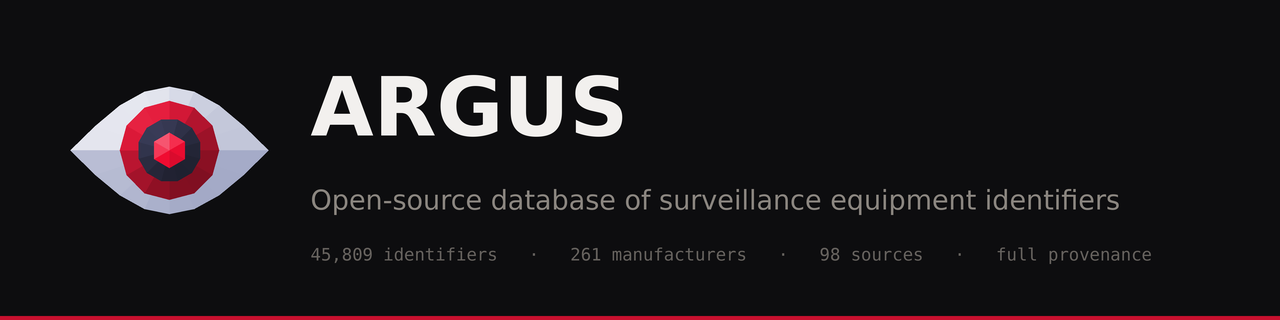
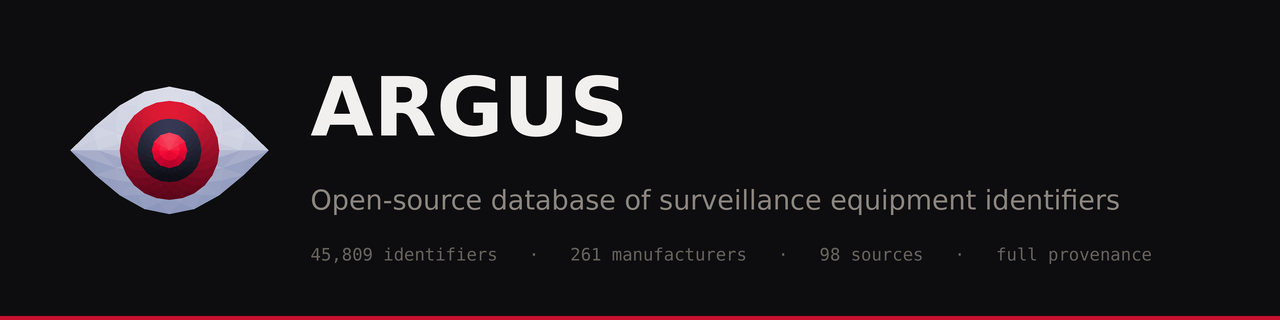
docs: the deeper-faceted Argus mark, drawn from one SVG
The mark is now the one on gurutechnology.services (the same file, byte for
byte): more rings of facets and a 24-sided iris where it had 12.
docs/assets/argus-mark.svg is that file. make_banner.py now reads its
polygons instead of keeping a second copy of the geometry in Python, so the
PNGs are regenerated from the SVG.

The facts line was re-measured and is unchanged: record_count=45809 in
exports/argus_export.csv, 261 manufacturers and 98 sources in db/argus.db.

Changed region(s): [[0.0625, 0.3125, 0.1875, 0.6562]]

diff --git a/scripts/make_banner.py b/scripts/make_banner.py
@@ -16,9 +16,8 @@ looks soft on a HiDPI screen.
 Usage:
     python3 scripts/make_banner.py            # writes docs/assets/{argus-banner,argus-logo}.png
 """
-import colorsys
-import math
 import os
+import xml.etree.ElementTree as ET
 import sys
 from PIL import Image, ImageDraw, ImageFont
 
@@ -46,111 +45,37 @@ def font(kind, size):
 
 
 # ---- the low-poly mark ------------------------------------------------------
-# Every shape is split into flat triangles, and each triangle is shaded by how
-# much it faces one light from the top left, so the mark reads as a faceted
-# solid. Geometry is in a 64-unit box; draw_mark scales it to pixels. The same
-# geometry is the SVG mark on gurutechnology.services.
-LIGHT = (-0.45, -0.65, 0.62)
-_ln = math.sqrt(sum(c * c for c in LIGHT))
-LIGHT = tuple(c / _ln for c in LIGHT)
+# The mark is docs/assets/argus-mark.svg, the same file gurutechnology.services
+# shows: flat shaded polygons in a 64-unit box. draw_mark reads those polygons
+# and scales them to pixels, so these PNGs cannot drift from the site's mark.
+MARK_SVG = os.path.join(os.path.dirname(__file__), "..", "docs", "assets", "argus-mark.svg")
 
 
-def _shade(rgb, p, q, r, spread):
-    (x1, y1, z1), (x2, y2, z2), (x3, y3, z3) = p, q, r
-    ux, uy, uz = x2 - x1, y2 - y1, z2 - z1
-    vx, vy, vz = x3 - x1, y3 - y1, z3 - z1
-    nx, ny, nz = uy * vz - uz * vy, uz * vx - ux * vz, ux * vy - uy * vx
-    if nz < 0:
-        nx, ny, nz = -nx, -ny, -nz
-    m = math.sqrt(nx * nx + ny * ny + nz * nz) or 1
-    d = (nx * LIGHT[0] + ny * LIGHT[1] + nz * LIGHT[2]) / m
-    hue, lum, sat = colorsys.rgb_to_hls(*(c / 255 for c in rgb))
-    delta = spread * (d - 0.62) * 1.6
-    if delta < 0:
-        delta *= 0.55                     # the shaded side darkens gently, so colours stay even
-    lum = min(0.93, max(0.08, lum + delta))
-    return tuple(round(c * 255) for c in colorsys.hls_to_rgb(hue, lum, sat))
-
-
-def _ngon(cx, cy, r, n, rot=0):
-    return [(cx + r * math.cos(math.radians(rot + 360 * k / n)),
-             cy + r * math.sin(math.radians(rot + 360 * k / n))) for k in range(n)]
-
-
-class _Facets:
-    """Collects shaded triangles as (colour, [(x, y), (x, y), (x, y)])."""
-
-    def __init__(self):
-        self.tris = []
-
-    def tri(self, a, b, c, rgb, spread):
-        self.tris.append((_shade(rgb, a, b, c, spread), [a[:2], b[:2], c[:2]]))
-
-    def fan(self, poly, apex, h, rgb, spread):
-        """A pyramid: every edge of poly joined to a raised apex."""
-        top = (apex[0], apex[1], h)
-        for i in range(len(poly)):
-            p, q = poly[i], poly[(i + 1) % len(poly)]
-            self.tri((p[0], p[1], 0), (q[0], q[1], 0), top, rgb, spread)
-
-    def dome(self, poly, apex, h, rgb, spread, k=0.5, kz=0.72):
-        """Two rings of facets: an outer band rising to an inner ring, then a pyramid."""
-        inner = [(x + (apex[0] - x) * k, y + (apex[1] - y) * k) for x, y in poly]
-        top = (apex[0], apex[1], h)
-        n = len(poly)
-        for i in range(n):
-            p, q = poly[i], poly[(i + 1) % n]
-            a, b = inner[i], inner[(i + 1) % n]
-            P, Q = (p[0], p[1], 0), (q[0], q[1], 0)
-            A, B = (a[0], a[1], h * kz), (b[0], b[1], h * kz)
-            self.tri(P, Q, B, rgb, spread)
-            self.tri(P, B, A, rgb, spread)
-            self.tri(A, B, top, rgb, spread)
-
-    def ridge_arc(self, cx, cy, r, t, a0, a1, segs, h, rgb, spread=0.30):
-        """A band along an arc with a raised ridge down its middle."""
-        for i in range(segs):
-            b0 = math.radians(a0 + (a1 - a0) * i / segs)
-            b1 = math.radians(a0 + (a1 - a0) * (i + 1) / segs)
-
-            def P(rad, ang, z=0):
-                return (cx + rad * math.cos(ang), cy + rad * math.sin(ang), z)
-            i0, i1 = P(r - t / 2, b0), P(r - t / 2, b1)
-            o0, o1 = P(r + t / 2, b0), P(r + t / 2, b1)
-            m0, m1 = P(r, b0, h), P(r, b1, h)
-            self.tri(i0, i1, m1, rgb, spread)
-            self.tri(i0, m1, m0, rgb, spread)
-            self.tri(m0, m1, o1, rgb, spread)
-            self.tri(m0, o1, o0, rgb, spread)
-
-
-def _mark_facets():
-    """Silver eye, crimson iris, dark ring, red pupil, every facet on one centre."""
-    f = _Facets()
-    top = [(4 + 56 * k / 8, 32 - 18 * math.sin(math.pi * k / 8)) for k in range(9)]
-    bot = [(60 - 56 * k / 8, 32 + 18 * math.sin(math.pi * k / 8)) for k in range(1, 8)]
-    f.dome(top + bot, (32, 32), 9, (0xc3, 0xc7, 0xda), 0.20)
-    f.dome(_ngon(32, 32, 14, 12, -90), (32, 32), 7, (0xb8, 0x15, 0x2f), 0.20, 0.45, 0.8)
-    f.fan(_ngon(32, 32, 9, 12, -75), (32, 32), 5, (0x2b, 0x2d, 0x42), 0.14)
-    f.fan(_ngon(32, 32, 5, 6, -90), (32, 32), 3.5, (0xf4, 0x24, 0x46), 0.18)
-    return f.tris
-
-
-MARK_BOX = (4, 14, 60, 50)               # the eye's extent in the 64-unit box
+def _mark_polygons():
+    """[(rgb, [(x, y), ...]), ...] from MARK_SVG, in drawing order."""
+    polys = []
+    for el in ET.parse(MARK_SVG).iter("{http://www.w3.org/2000/svg}polygon"):
+        nums = [float(v) for v in el.get("points").replace(",", " ").split()]
+        fill = el.get("fill").lstrip("#")
+        polys.append((tuple(int(fill[i:i + 2], 16) for i in (0, 2, 4)), list(zip(nums[::2], nums[1::2]))))
+    if not polys:
+        raise SystemExit(f"no polygons found in {MARK_SVG}")
+    return polys
 
 
 def draw_mark(d, cx, cy, size):
     """Draw the mark centred on (cx, cy), its longer side `size` pixels.
 
-    Each facet is filled and outlined in its own colour, so no seam shows
-    between neighbours after the LANCZOS downsample.
+    Each polygon is outlined in its own colour, so no seam shows between
+    neighbours after the LANCZOS downsample.
     """
-    x0, y0, x1, y1 = MARK_BOX
-    s = size / max(x1 - x0, y1 - y0)
-    mx, my = (x0 + x1) / 2, (y0 + y1) / 2
-    for rgb, pts in _mark_facets():
-        xy = [(cx + (x - mx) * s, cy + (y - my) * s) for x, y in pts]
-        d.polygon(xy, fill=rgb, outline=rgb)
+    polys = _mark_polygons()
+    xs = [x for _, pts in polys for x, _ in pts]
+    ys = [y for _, pts in polys for _, y in pts]
+    s = size / max(max(xs) - min(xs), max(ys) - min(ys))
+    mx, my = (min(xs) + max(xs)) / 2, (min(ys) + max(ys)) / 2
+    for rgb, pts in polys:
+        d.polygon([(cx + (x - mx) * s, cy + (y - my) * s) for x, y in pts], fill=rgb, outline=rgb)
 
 
 def make_logo(path, size=512):
